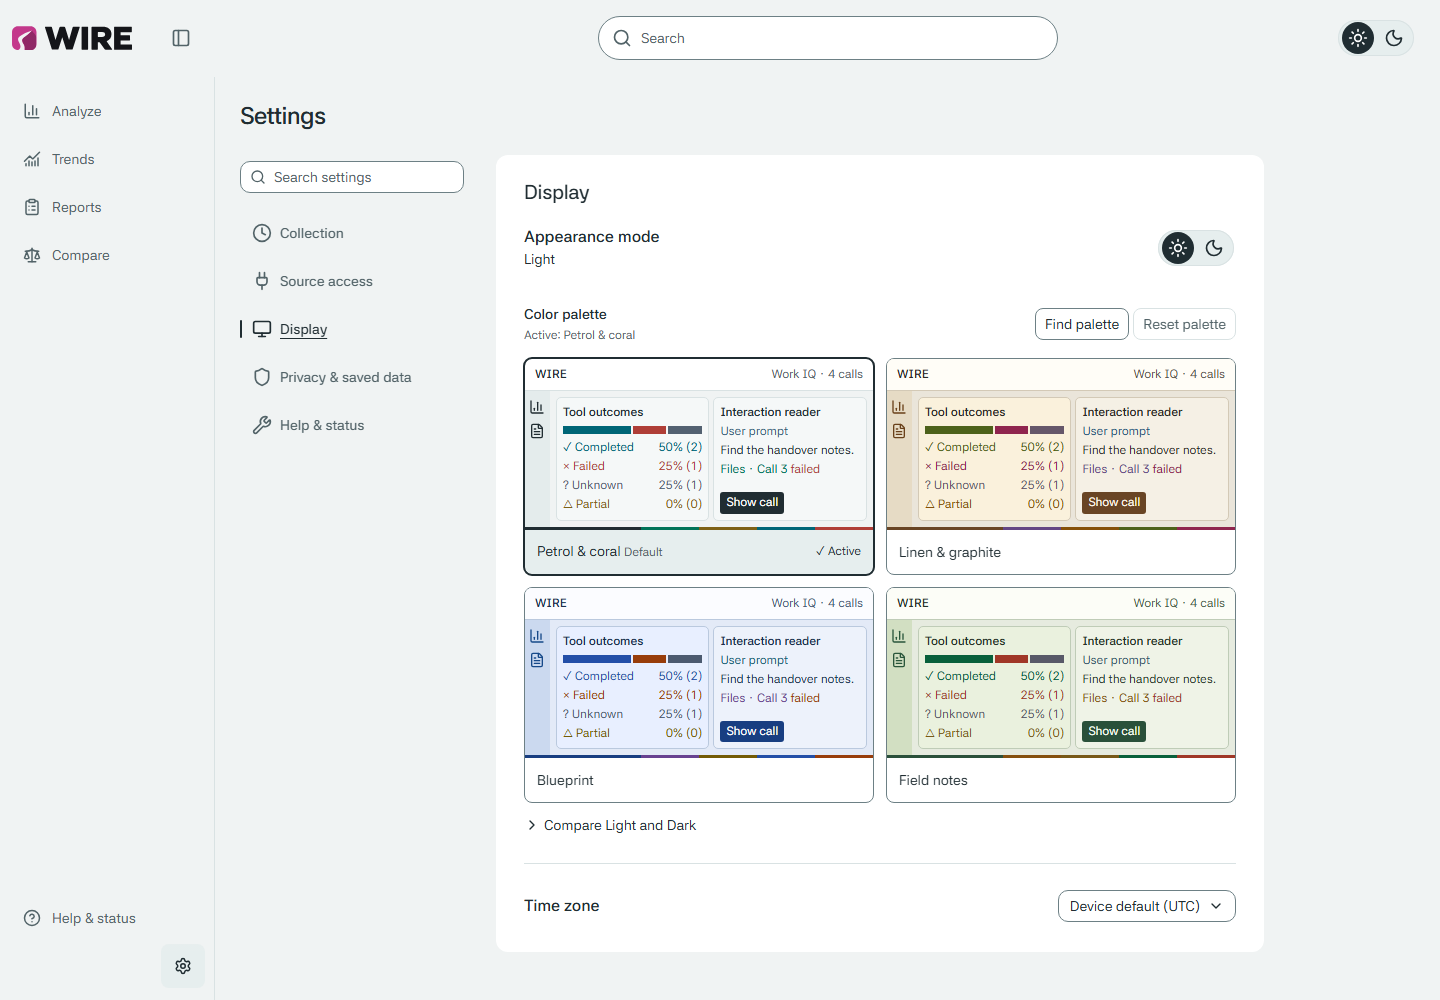
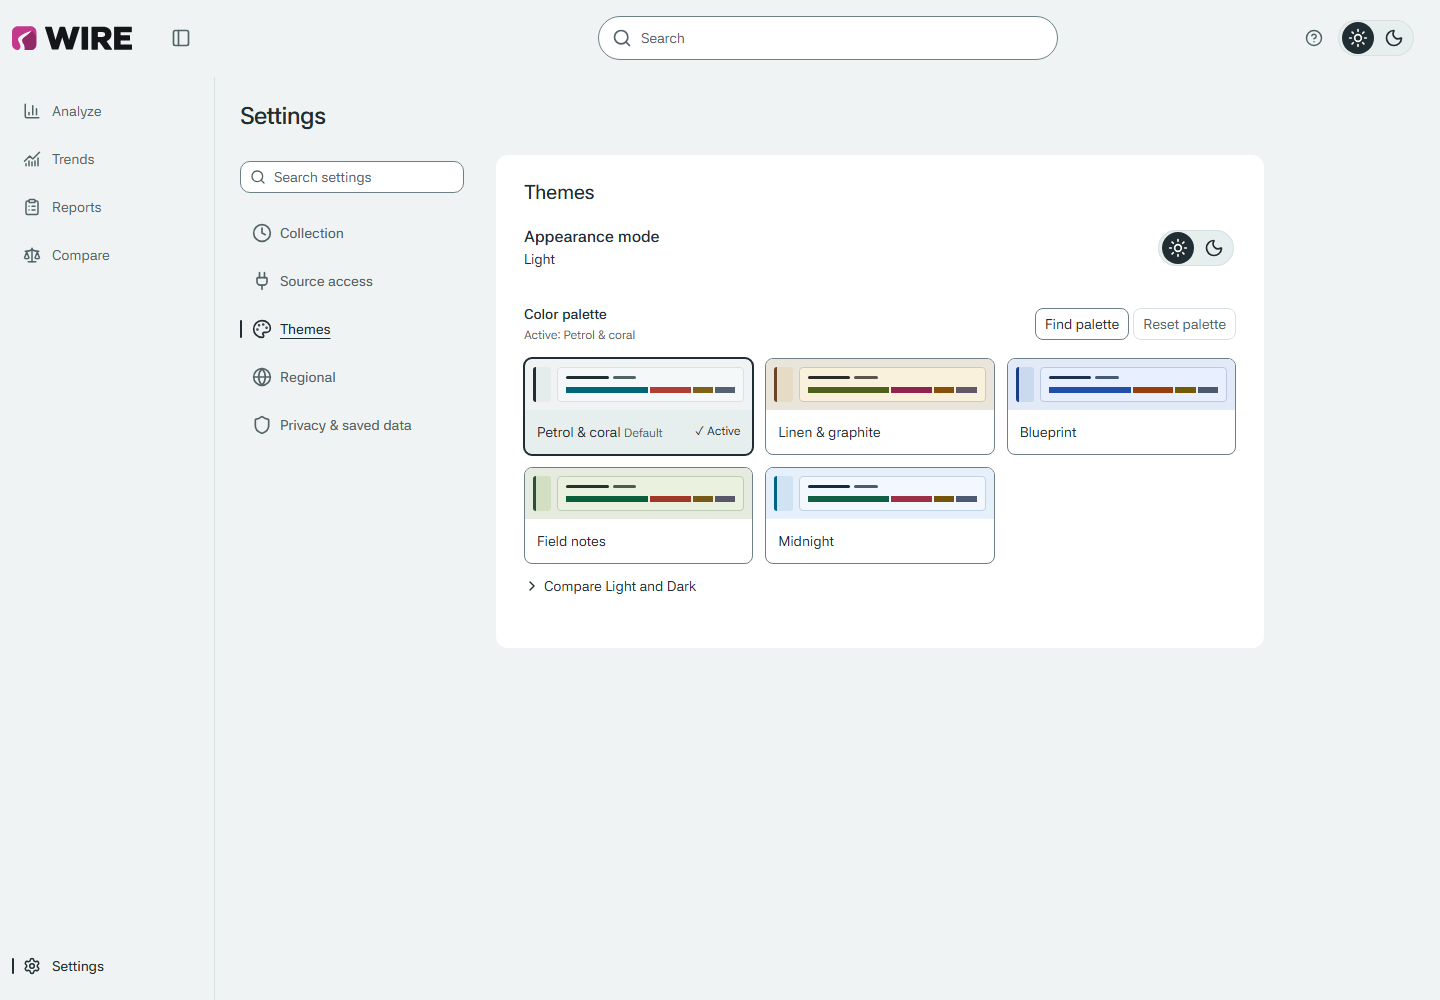
Finish Themes, Regional settings and sidebar utilities

diff --git a/web/frontend/app-shell.tsx b/web/frontend/app-shell.tsx
@@ -156,7 +156,7 @@ function AppShell({ ports, workspace, navigate, refresh, closeReader, activity }
                     <button id="navigationToggle" className="navigation-toggle quiet" type="button"
                         aria-label="Open navigation" aria-expanded="false" aria-controls="navigationDrawer" hidden />
                     <Search />
-                    <div className="workspace-utilities"><div className="theme-control">
+                    <div className="workspace-utilities"><a id="openEvidenceHelp" className="header-help" href="/settings?section=troubleshooting" aria-label="Help" data-settings-link /><div className="theme-control">
                         <button type="button" id="themePreference" className="theme-trigger" role="switch" aria-label="Dark theme" aria-checked="false" />
                     </div></div>
                 </div></div>
@@ -180,10 +180,8 @@ function AppShell({ ports, workspace, navigate, refresh, closeReader, activity }
             <section id="analyzeTools" className="analyze-tools" aria-label="Analyze tools" hidden>
                 <h2 className="navigation-group-label">Analyze tools</h2><div id="analyzeReturnActions" /><div id="analyzeToolActions" />
             </section>
-            <div className="navigation-bottom"><nav className="primary-navigation" aria-label="Help navigation">
-                <a id="openEvidenceHelp" href="/settings?section=troubleshooting" aria-label="Help & status" data-settings-link><span className="navigation-label">Help &amp; status</span></a>
-            </nav><div id="navigationFooter" className="navigation-footer">
-                <div id="wireAccountEntry" hidden /><nav className="primary-navigation" aria-label="Utility navigation">{nav("settings", "Settings")}</nav>
+            <div className="navigation-bottom"><div id="navigationFooter" className="navigation-footer">
+                <nav className="primary-navigation" aria-label="Utility navigation">{nav("settings", "Settings")}</nav><div id="wireAccountEntry" hidden />
             </div></div>
         </>, ports.navigation)}
         {createPortal(<>

diff --git a/docs/user-guide.md b/docs/user-guide.md
@@ -87,7 +87,7 @@ not included in these shares.
 
 Dates filter retained activity; they do not approve older source reads.
 Custom dates include both days in the time zone chosen under
-**Settings > Display > Time zone**. Missing history and records without qualified
+**Settings > Regional > Time zone**. Missing history and records without qualified
 times remain explicit. No matches means
 no matching retained evidence, not proof that no activity occurred.
 
@@ -330,14 +330,14 @@ This search runs on-device over fixed setting information. It is separate from
 the main Search field for saved activity and reports, and does not read private
 path values.
 
-In **Display**, choose Light or Dark, a color palette and a time zone for this
-browser. The toolbar switch changes only Light/Dark. Select a palette card to
+In **Themes**, choose Light or Dark and a color palette for this browser.
+Change the time zone separately in **Regional**. The toolbar switch changes only Light/Dark. Select a palette card to
 change the screen immediately; **Compare Light and Dark** shows the selected
 palette in both modes. **Reset palette** restores Petrol & coral without
 changing mode. If storage is unavailable, the choice applies to this panel
 only. Changing appearance does not rewrite saved reports or their original time zone.
 
-![Display with four palette previews. Petrol & coral is active in Light mode.](images/settings-display.png)
+![Themes with five compact palette previews. Petrol & coral is active in Light mode.](images/settings-display.png)
 
 ## Keep collection and saved data separate
 
@@ -364,7 +364,7 @@ default. This display profile does not control access to history. A neutral
 icon means the profile is unavailable, not that collection needs a different
 GitHub CLI login.
 
-Use **Help & status** above Account and Settings for the meaning of counts
+Use **Help** beside the toolbar mode switch for the meaning of counts
 and tool results. **HTTP recorder** shows any saved diagnostic. Normal WIRE
 launches cannot start a new network test. A saved diagnostic is separate from
 Copilot collection status.

diff --git a/docs/interaction-design.md b/docs/interaction-design.md
@@ -558,13 +558,15 @@ action after confirmed first approval.
 ### Categories and setting search
 
 Settings opens in **Collection**. Its category rail switches between Collection,
-Source access, Display, Privacy & saved data, and Help & status. Keep one
+Source access, Themes, Regional, and Privacy & saved data. Keep one
 focused pane; on narrow screens the same categories collapse into a chooser.
 Source access owns approval and paths; Collection owns cadence, Pause and
 one-time checks. Opening either area never approves a source. Search finds fixed setting
 metadata and navigates; it never clicks an action or reads private path values.
 
-The Help & status link just above Account and Settings opens that same category.
+The Help icon beside the header mode switch opens the single Help destination.
+Keep Settings as a labeled navigation row above the full-width account control;
+the account menu shows the complete bound identity even if a long name is clipped in the rail.
 Keep static explanations of counts and recorded tool outcomes there. Coverage
 warnings belong with the affected activity and link to Collection status.
 

diff --git a/docs/design.md b/docs/design.md
@@ -94,12 +94,12 @@ Light screens use quiet cool-neutral surfaces; Dark uses separately designed
 petrol-neutral surfaces. Controls, selection and focus remain neutral rather
 than borrowing outcome colors. Dark service inks retain their identity hues
 with added lightness for contrast on selected surfaces.
-Petrol & coral remains the default. Settings > Display separately chooses
-Linen & graphite, Blueprint or Field notes in either Light or Dark.
+Petrol & coral remains the default. Settings > Themes separately chooses
+Linen & graphite, Blueprint, Field notes or Midnight in either Light or Dark.
 The screen palette catalog (`web/screen-palettes.mjs`) maps materials,
 control states, widget marks, series, services and authors to CSS roles;
 names, result glyphs and count geometry are not color-derived. The same
-roles paint the static miniature cards without reading a user's activity.
+roles paint compact, unbranded material samples without reading a user's activity.
 Screen-only `screenTokens` and `screenFontStack` stay separate from
 report-facing tokens, typography and frozen output.
 
